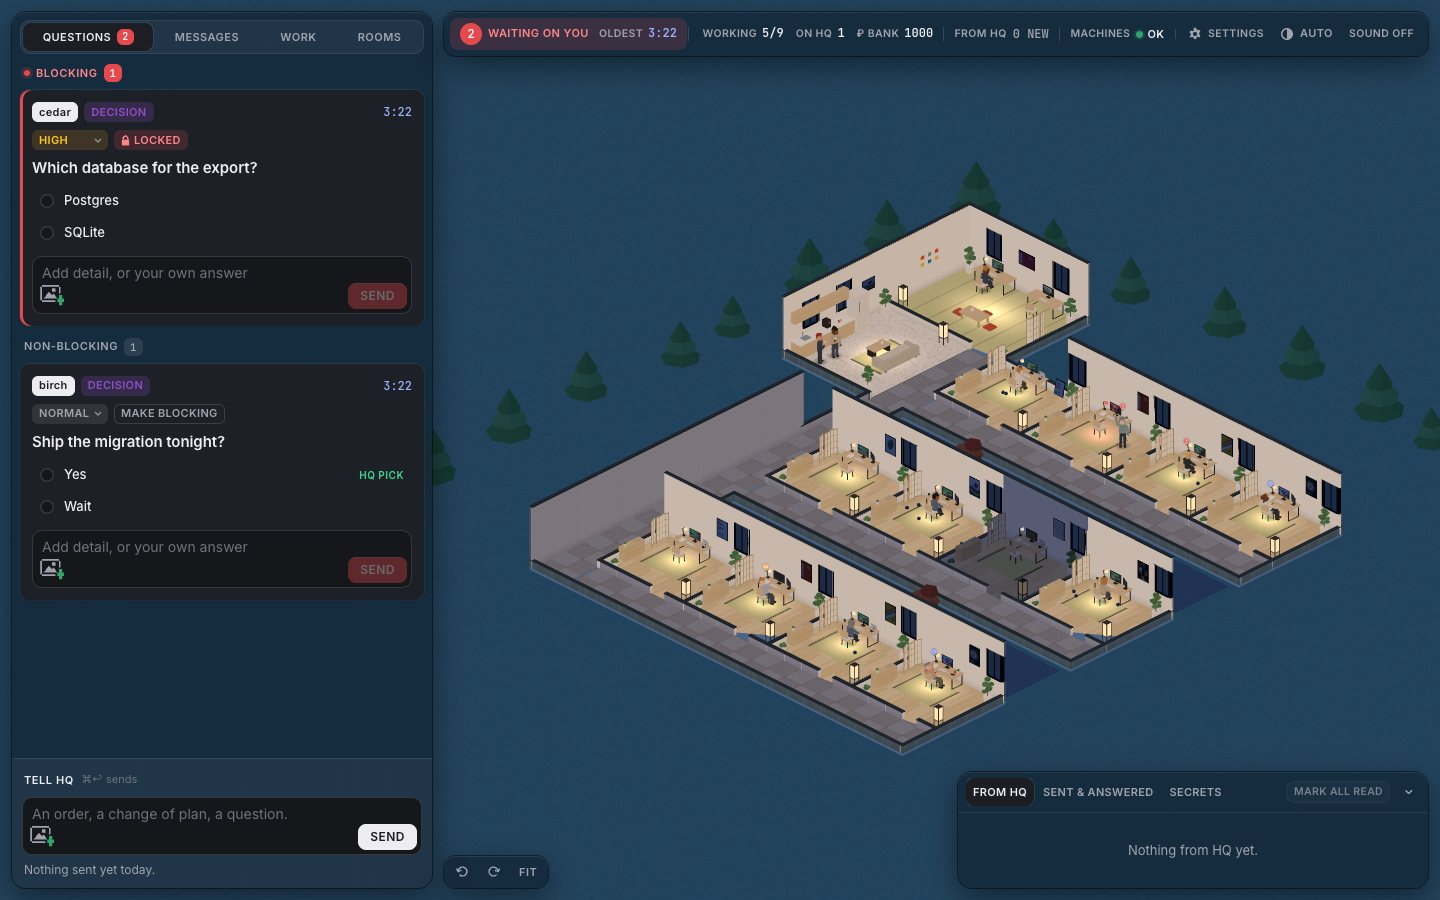
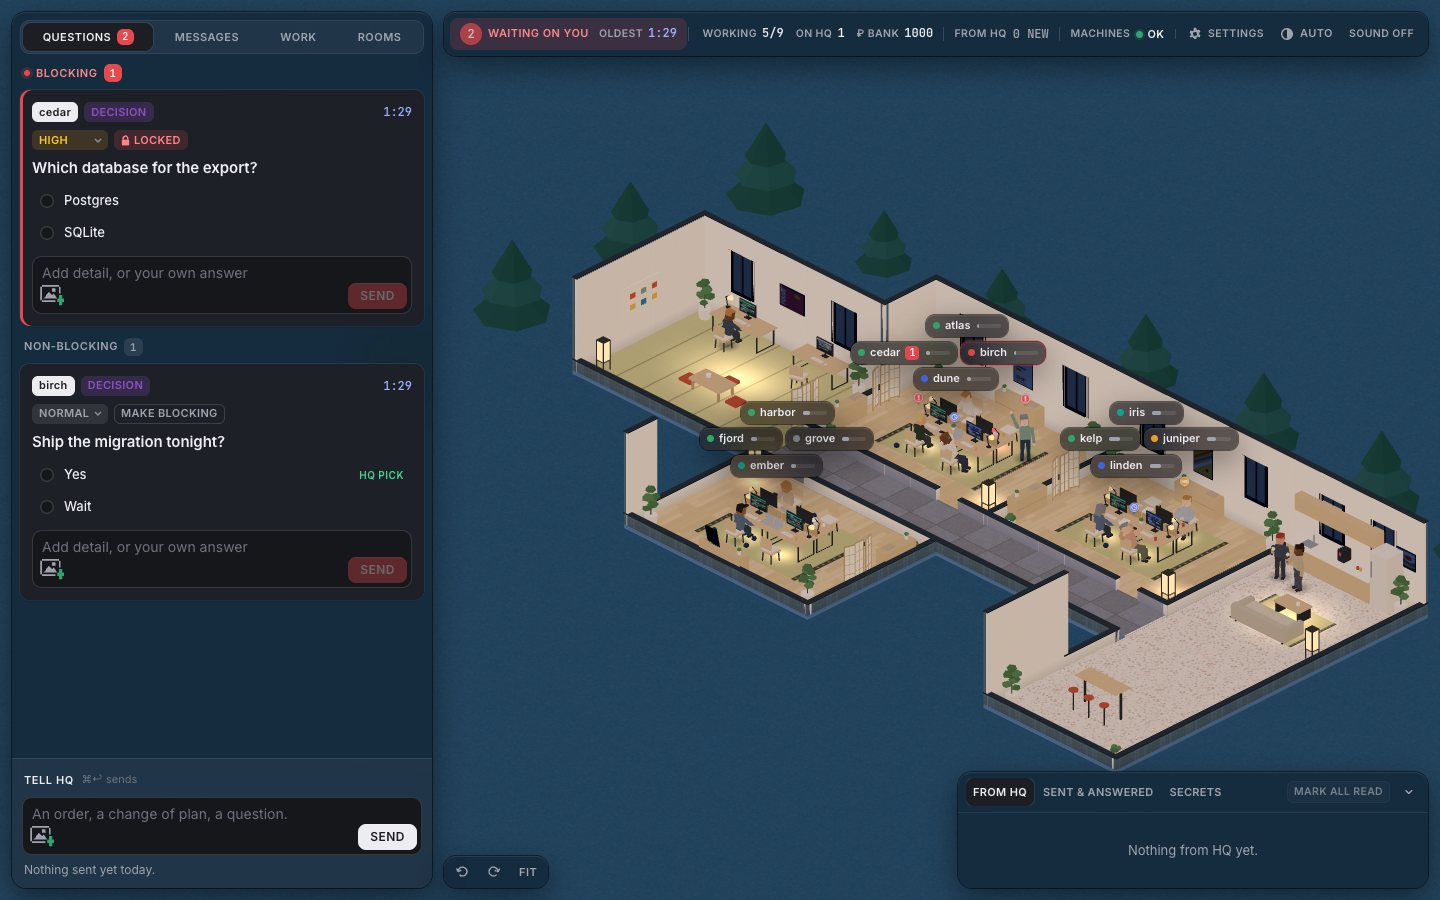
world: team rooms in the docs, the lab and the screens' users; no leaning poster
Spec F3 and section 5 rewritten for team rooms, D12 appended, README,
AGENTS.md and structure.md follow. The lab seats teams of 6, 3, 1, 4, 2,
1, 5 past four lanes (?teams= to change, ?teams=0 for none). A cut back
wall takes its poster with it: the print that leaned on the floor showed
the camera its back.

diff --git a/docs/design/world-lab.html b/docs/design/world-lab.html
@@ -191,16 +191,25 @@ const ui = q.get("ui") !== "0";
 document.documentElement.dataset.theme = theme;
 if (!ui) document.body.classList.add("noui");
 
-// Fake lanes: names, teams of four or five past eight lanes, and statuses that show every pose.
+// Fake lanes: names, a lane tree, and statuses that show every pose. Up to four lanes have no tree (one room of four);
+// past four, teams of the sizes in ?teams= (default 6,3,1,4,2,1,5: a team of six that opens a second room, small
+// teams, lanes on their own that share a room), repeated as needed. ?teams=0 gives no tree at all.
 const NAMES = ["birch", "cedar", "atlas", "dune", "ember", "fjord", "grove", "harbor", "iris", "juniper", "kelp", "linden", "maple", "nori", "oak", "pine", "quill", "reed", "sora", "tide", "umber", "vale", "willow", "yuzu"];
 const CYCLE = ["moving", "needs_you", "hq_turn", "waiting", "moving", "done", "moving", "parked", "needs_you", "moving", "stale", "waiting"];
 const custom = (q.get("statuses") ?? "").split(",").filter(Boolean);
+const sizes = (q.get("teams") ?? "6,3,1,4,2,1,5").split(",").map(Number).filter((s) => s > 0);
+const leadOf = [];
+for (let i = 0, k = 0; i < n; k++) {
+  const size = n > 4 && sizes.length ? sizes[k % sizes.length] : 1;
+  for (let j = 0; j < size && i < n; j++, i++) leadOf.push(j ? i - j : -1);
+}
+const laneName = (i) => NAMES[i % NAMES.length] + (i >= NAMES.length ? `-${i}` : "");
 const lanes = [{ name: "hq", status: "moving" }];
 for (let i = 0; i < n; i++) {
-  const team = n > 8 ? Math.floor(i / 5) * 5 : -1;
+  const team = leadOf[i] >= 0 ? leadOf[i] : i;
   const status = custom[i] ?? CYCLE[i % CYCLE.length];
   // a lane that works while one of its questions blocks it: the second working lane
-  lanes.push({ name: NAMES[i % NAMES.length] + (i >= NAMES.length ? `-${i}` : ""), parent: team >= 0 && i !== team ? NAMES[team] : null, status, blocking: status === "needs_you" || i === 4 ? 1 : 0 });
+  lanes.push({ name: laneName(i), parent: i !== team ? laneName(team) : null, status, blocking: status === "needs_you" || i === 4 ? 1 : 0 });
 }
 // Vitals in the server's shape (S.vitals[lane]): model, family, effort, context used and max, running subagents.
 const MODELS = ["claude-opus-4-5", "claude-sonnet-4-5", "claude-opus-4-5", "claude-haiku-4-5"];

diff --git a/src/client/world/furniture.js b/src/client/world/furniture.js
@@ -242,18 +242,13 @@ export function buildTeamRoom(room, L, light) {
   const wallPoster = posterMesh(room.index * 3 + 1, 0.7, 0.92);
   wallPoster.position.set(w / 2, 1.0, 0.08);
   group.add(wallPoster);
-  // when the back wall is cut, a smaller print leans on the shelf instead
-  const leanPoster = posterMesh(room.index * 3 + 1, 0.4, 0.54);
-  leanPoster.position.set(w / 2 + 0.3, 0.62, 0.14);
-  leanPoster.rotation.x = -0.2;
-  leanPoster.visible = false;
-  group.add(leanPoster);
 
   const lightPool = pool(L);
   lightPool.scale.set(0.6, 1, 0.6);
   lightPool.position.set(lx - 0.4, 0.012, lz - 0.4);
   group.add(lightPool);
-  return { group, lantern: glowM, wallPoster, leanPoster, pool: lightPool };
+  // when the back wall is cut the poster goes with it (a print leaning on the shelf would show the camera its back)
+  return { group, lantern: glowM, wallPoster, leanPoster: null, pool: lightPool };
 }
 
 // The HQ suite: HQ's desk, the owner's desk, a low table on the tatami, a board, plants.

diff --git a/docs/spec-3d-office.md b/docs/spec-3d-office.md
@@ -40,7 +40,7 @@ server with a throwaway data dir, with a screenshot saved under `docs/screens/`.
 | --- | --- | --- |
 | F1 | A three.js scene fills the whole window behind everything. Every panel is HTML over it. The page has no page scroll. | Browser |
 | F2 | Panels are frosted glass (blur and saturation of what is behind, a light inner edge, a soft shadow), dense like Linear: 13 px text, 28 to 32 px rows. Light and dark themes, following the system unless the owner picks one. The 3D office relights for each: day and night. | Browser (both themes) |
-| F3 | Every lane has its own office: its own floor, walls, desk, chair, poster, plant. More lanes add more offices along corridors; the floor never just gets bigger. | Browser at 1, 4, 9 and 18 lanes |
+| F3 | Every lane has its own desk (desk, chair, monitor, lamp) in a team room of up to four desks with its own floor, walls, poster, plants and shelves. A team (a top-level lane and everyone under it) shares a room and opens another next to its first past four; lanes with no tree fill rooms of four. More lanes add more rooms along corridors; the floor never just gets bigger. (Revised after the first build: D12.) | Browser at 1, 4, 9 and 18 lanes (1, 1, 3 and 5 rooms), and a team of six in two rooms |
 | F4 | Walls cut away: the two walls nearer the camera are low (a 0.4 m kerb), the two far walls are full height. Rotating the view in 90° steps recomputes which walls are low. | Browser |
 | F5 | Interior: light oak floors and desks, off-white walls, black steel legs, paper lanterns, shoji screens, low plants, tatami-style rugs, original posters. Reads as a small Scandinavian and Japanese startup. | Browser, owner's eye |
 | F6 | Each desk has a HUD readable at a glance: lane name and status, model, effort, number of running subagents, and context in use as a bar with a number. | Browser |
@@ -54,7 +54,7 @@ server with a throwaway data dir, with a screenshot saved under `docs/screens/`.
 
 | # | Outcome | Check |
 | --- | --- | --- |
-| D1 | `bun test` passes. Tests that hashed the old pixel room are replaced by tests of the new room (scene draws, one office per lane, walls cut, HUD per desk). | Test |
+| D1 | `bun test` passes. Tests that hashed the old pixel room are replaced by tests of the new room (scene draws, one desk per lane in team rooms, walls cut, HUD per desk). | Test |
 | D2 | `docs/STATUS.md` says what was built, what was decided, and what the owner should look at first. | File |
 | D3 | One draft PR on the fork. Nothing pushed to upstream, nothing merged. | `gh` |
 
@@ -94,7 +94,7 @@ furniture, walls that drop away so you look into rooms like a doll's house. Our 
 Nordic and Japanese startup, not a suburban house.
 
 - **Camera.** Orthographic, 45° azimuth, 30° elevation (the exact 2:1 of the original; see `docs/research/sims1-look.md`). Pan by drag, zoom by wheel or pinch within limits,
-  rotate in 90° steps (Q and E, or buttons). It eases to fit all offices when lanes come and go.
+  rotate in 90° steps (Q and E, or buttons). It eases to fit all rooms when lanes come and go.
 - **Light.** Day: a warm key light with soft shadows, a cool sky fill, gentle ambient. Night (dark theme): a dim blue
   ambient; desk lamps, monitors and lanterns carry the light.
 - **Materials.** Flat-shaded or very lightly lit standard materials, no textures larger than 256 px, posters drawn on
@@ -107,7 +107,7 @@ Nordic and Japanese startup, not a suburban house.
 
 | Token | Day | Night | Use |
 | --- | --- | --- | --- |
-| floor-oak | #d9b98c | #6b5a45 | office floors |
+| floor-oak | #d9b98c | #6b5a45 | team room floors |
 | floor-corridor | #e8e4dc | #3a3b40 | corridors |
 | wall | #f3efe7 | #4a4a52 | wall faces |
 | wall-cap | #c9b28f | #6e6250 | the top of the cut wall |
@@ -170,18 +170,30 @@ Status colours as above, at 12% alpha for fills.
 Like Game Dev Tycoon, the company moves into bigger premises as it grows, and like the brief asks, growth means more
 rooms, never one bigger floor.
 
-- **Office.** A 5 m by 4 m cell with its own floor, four walls and a door to the corridor. One lane per office.
-- **HQ suite.** A 7 m by 5 m office at the head of the plan for HQ and the owner's own desk.
-- **Stages,** by lane count:
-  1. Studio (1 to 3): HQ suite and a short hall with offices on one side.
-  2. Floor (4 to 8): a corridor with offices on both sides, and a break area (kitchen counter, sofa) where done
-     workers go.
-  3. Wings (9 to 16): one wing per top-level team in the lane tree, each its own corridor off a central hall.
-  4. Campus (17 and more): more wings in a grid, with courtyards (gravel, a maple) between them.
-- **Stable places.** A lane keeps its office while it exists. Offices are assigned in the order lanes appear,
-  grouped by team; a stage change re-lays the plan once and animates it.
-- **Arrival.** A new office rises from the floor over 800 ms; a removed lane's office dims and empties, then folds
-  away on the next stage change.
+- **Team room.** A 7 m by 5 m room with its own floor, four walls, a door to the corridor and two windows in the
+  back wall. It holds up to four desks as two facing pairs, an island in the middle of the room: the back pair's
+  workers face the door (and the camera at the default view), so they fill first. Each desk has its own chair,
+  monitor and lamp, and a few things of its lane's own (a notebook, a laptop, headphones, a mug); the room has one
+  set of the rest: a tatami rug under the island, a poster over a low shelf on the back wall, a shoji screen and a
+  shelf on the west wall, plants, a paper lantern by the door. A waiting worker stands beside its desk on the
+  island's outer side.
+- **Teams.** A team is a top-level lane (its parent is empty or HQ) and everyone under it in the lane tree. A team
+  shares a room; past four lanes it opens another room next to its first. Lanes with no tree (a top-level lane with
+  nobody under it) fill shared rooms of four in the order they appear. So the rooms mirror the lane tree.
+- **HQ suite.** A 7 m by 5 m room at the head of the plan for HQ and the owner's own desk.
+- **Stages,** by team rooms (1 to 4 lanes is one room):
+  1. Studio (1 room): the HQ suite and one team room side by side, a hall along their fronts.
+  2. Floor (2 to 4 rooms): a corridor with team rooms on both sides, the suite at one end and a break area (kitchen
+     counter, sofa) where done workers go at the other.
+  3. Wings (5 to 8 rooms): rows of up to four team rooms, each along its own corridor off a central hall, with
+     courtyards (gravel, a maple) between them; the break area beside the hall.
+  4. Campus (9 rooms and more): two columns of wings across a court from each other.
+- **Stable places.** A lane keeps its desk while it exists. A new lane takes a free desk in a room where its team
+  sits, else in a room opened for its team (or for lanes with no tree), else in a room left empty, else in a new
+  room at the end. A lane that comes back takes its old desk again. When the rooms in use call for another stage,
+  the plan is laid out again from the live lanes, grouped by team, in the order they appear.
+- **Arrival.** A new lane's desk rises from the floor over 800 ms; a removed lane's desk empties (no worker, screen
+  dark) and folds away at the next re-plan.
 
 ## 6. Code layout
 
@@ -204,8 +216,8 @@ export const THREE;                       // the vendored module
 export function onFrame(fn) {}            // fn(now, dt) after the scene updates, before render
 export function deskAnchor(lane) {}       // THREE.Vector3 above the lane's desk, or null
 export function project(v3) {}            // { x, y, visible } in CSS pixels
-export function addToWorld(obj, lane) {}  // parent an object to a lane's office group
-// bus: "world:ready", "world:select" (lane name), "world:layout" (lane names in their offices)
+export function addToWorld(obj, lane) {}  // parent an object to a lane's desk group (not its shared room)
+// bus: "world:ready", "world:select" (lane name), "world:layout" (the names of the lanes at desks)
 ```
 
 The old canvas room (`src/client/room/`) and its pixel tests are retired in the same change.

diff --git a/AGENTS.md b/AGENTS.md
@@ -1,6 +1,6 @@
 # HQ Office
 
-A local command centre for people who run AI coding agents in herdr: a 3D office in the manner of late-90s life-sim games where every lane (an AI agent working one task) is a worker in its own office, plus the panel where the owner answers HQ's questions. It runs as a herdr plugin or as `bun server.ts`, at http://127.0.0.1:4747 by default.
+A local command centre for people who run AI coding agents in herdr: a 3D office in the manner of late-90s life-sim games where every lane (an AI agent working one task) is a worker at a desk in its team's room, plus the panel where the owner answers HQ's questions. It runs as a herdr plugin or as `bun server.ts`, at http://127.0.0.1:4747 by default.
 
 If `AGENTS.local.md` exists next to this file, read it too: it holds the rules of this particular installation (how the server is run and restarted, who to report to). It is gitignored and never published.
 
@@ -29,7 +29,7 @@ what it is for. `docs/structure.md` explains the layout and its trade-offs.
 - `public/index.html`: the page shell (head, markup). The server adds every stylesheet and every feature folder when it serves it.
 - `src/client/main.js`: loads the built-in areas in their original order.
 - `src/client/core/`: shared by every area: `state.js` (S, CONFIG), `net.js` (post), `bus.js` (events), `boot.js` (load, stream, autoreload), `format.js`, `text.js`, `dom.js`, `clicks.js`, `status.js`; `base.css`, `controls.css`, `layout.css`.
-- `src/client/world/`: the 3D office (three.js): `index.js` (the feature entry: mounts the world on `<canvas id="world">`, fits it right of the question column, drives it from the bus `state` event; Q/E turn a quarter, 0 fits; exposes a read-only `window.__world` for tests), `world.js` (`mountWorld`: build, status, errands, turns, picking, frame loop), `api.js` (the one door for other areas: `THREE`, `onFrame`, `deskAnchor`, `project`, `addToWorld`; bus events `world:ready`, `world:select`, `world:hover`, `world:layout`), `plan.js` (pure: rooms, walls, cutaway, growth stages), `walk.js` (pure: paths from a desk to the break area), `camera.js`, `scene.js` (renderer, lights, frame loop), `rooms.js` (floors, walls with the cutaway), `furniture.js`, `people.js` (workers and poses), `balls.js` (subagent balls), `look.js` (colour tokens per theme, status colours, poses), `textures.js` (canvas textures drawn in code), `kit.js` (low-poly mesh tools), `world.css` (the turn and fit buttons).
+- `src/client/world/`: the 3D office (three.js): `index.js` (the feature entry: mounts the world on `<canvas id="world">`, fits it right of the question column, drives it from the bus `state` event; Q/E turn a quarter, 0 fits; exposes a read-only `window.__world` for tests), `world.js` (`mountWorld`: build, status, errands, turns, picking, frame loop), `api.js` (the one door for other areas: `THREE`, `onFrame`, `deskAnchor`, `project`, `addToWorld`; bus events `world:ready`, `world:select`, `world:hover`, `world:layout`), `plan.js` (pure: team rooms of four desks grouped by the lane tree, stable desks, walls, cutaway, growth stages counted in rooms), `walk.js` (pure: paths from a desk to the break area), `camera.js`, `scene.js` (renderer, lights, frame loop), `rooms.js` (floors, walls with the cutaway), `furniture.js`, `people.js` (workers and poses), `balls.js` (subagent balls), `look.js` (colour tokens per theme, status colours, poses), `textures.js` (canvas textures drawn in code), `kit.js` (low-poly mesh tools), `world.css` (the turn and fit buttons).
 - `src/client/theme/`: light, dark or system theme and the THEME button; emits `theme` on the bus. `src/client/glass/`: the glass shell's small behaviour (feed fold, Esc closes the worker card). `src/client/desk-hud/`: the HTML chip over each desk (lane, status, model, effort, subagents, context).
 - `src/client/vendor/three/`: three.js r186, vendored (minified module, its LICENSE, `addons/RoundedBoxGeometry.js`). `public/index.html` has an import map that maps `"three"` to `/src/client/vendor/three/three.module.min.js`.
 - `src/client/topbar/`, `questions/`, `tell/`, `feed/`, `card/`, `messages/`, `images/`, `sound/`, `settings/`: one folder per panel or feature, its module(s) and its stylesheet. `rooms/` is the ROOMS tab and the room view that takes the stage (`markdown.js`: the brief and the thread; the seats, AT THE TABLE, are in `index.js`).
@@ -52,7 +52,7 @@ what it is for. `docs/structure.md` explains the layout and its trade-offs.
 ## How to add
 
 - **A page feature or panel**: create `src/client/<name>/index.js` (and `<name>.css`). The page loads it after the built-in areas, no other file changes. Import what you read (`S` from `core/state.js`, `post` from `core/net.js`, `$` from `core/dom.js`) and render from the bus: `on("state", (S) => render())`. A panel inserts its own element (for example into `.under` or under the questions); it must never push an open question out of view.
-- **Something drawn in or over the office**: `onFrame((now, dt) => ...)`, `deskAnchor(lane)` and `project(v)` from `src/client/world/api.js` (HTML over a desk), or `addToWorld(obj, lane)` for a three.js object in a lane's office; listen for `world:ready` before using them.
+- **Something drawn in or over the office**: `onFrame((now, dt) => ...)`, `deskAnchor(lane)` and `project(v)` from `src/client/world/api.js` (HTML over a desk), or `addToWorld(obj, lane)` for a three.js object at a lane's desk; listen for `world:ready` before using them.
 - **A route**: add `{ method, path | prefix | pattern, handle }` to `src/server/routes/<resource>.ts`, or add the file. GET handlers return a Response; POST handlers get `{ body, m }` and return the JSON reply (nothing means `{ ok: true }`); writes are bumped for you.
 - **A table**: `src/server/schema/<table>.sql` with `CREATE TABLE IF NOT EXISTS`. Changing an existing table is a migration: ask HQ first.
 - **Server logic and state**: `src/server/<name>.ts`, imported by its route file; `addStatePart("<name>", () => value)` from `state.ts` puts it in `/api/state` as `S.<name>`.

diff --git a/README.md b/README.md
@@ -1,6 +1,6 @@
 # HQ Office
 
-HQ Office is a small local web app for people who run AI coding agents in [herdr](https://herdr.dev). It draws a 3D office in the manner of late-90s life-sim games, with a light Nordic-Japanese look: every lane (one agent working one task) is a worker in its own office, and you can see at a glance who is busy, who is blocked and who is done. Next to the office is the question panel, where your HQ agent (the agent that coordinates the others) asks you things and you answer them. Your answers are typed straight into the HQ agent's session.
+HQ Office is a small local web app for people who run AI coding agents in [herdr](https://herdr.dev). It draws a 3D office in the manner of late-90s life-sim games, with a light Nordic-Japanese look: every lane (one agent working one task) is a worker at a desk in its team's room, and you can see at a glance who is busy, who is blocked and who is done. Next to the office is the question panel, where your HQ agent (the agent that coordinates the others) asks you things and you answer them. Your answers are typed straight into the HQ agent's session.
 
 ## Requirements
 
@@ -125,11 +125,11 @@ A crash, a kill or a stop and start loses the values. The server keeps each secr
 
 Lanes can form a tree under HQ. `hud lane NAME --parent OTHER` sets who a lane reports to (`--parent hq` puts it straight under HQ); a loop is refused, and removing a lane moves its reports up a level. `hud tree` prints the tree with each lane's level name and status. In SETTINGS, LEVEL NAMES names the levels from the top (default `Manager, Lead, Engineer`; deeper lanes take the last name). The worker card shows a lane's level and its chain up to HQ.
 
-Every lane has its own office, and HQ has a suite. The office grows with the number of lanes: a studio for 1 to 3, a floor with a break area for 4 to 8, wings for 9 to 16 and a campus beyond that. From 9 lanes on, the offices of a top-level team share a wing. A new lane's office rises and a removed lane's office folds away.
+Every lane has its own desk, and a team shares a room: a top-level lane and everyone under it in the lane tree sit together, four desks to a room, and a bigger team opens another room next to its first. Lanes with no tree fill rooms of four in the order they appear. HQ has a suite. The office grows by rooms, never by one bigger floor: a studio with one team room (1 to 4 lanes), a floor with a break area for 2 to 4 rooms, wings for 5 to 8 rooms and a campus beyond that. A lane keeps its desk while it exists; a new lane's desk rises in its team's room and a removed lane's desk stands empty until the office is next laid out.
 
 Workers show their status by pose: seated and typing when working, standing beside the desk with a raised hand and a red badge when waiting on you, arms folded with an amber badge when HQ is up, leaning back with a blue badge when waiting on CI, walking to the break area with a mug when done, asleep at the desk when stale. A lane with an empty chair is parked or gone. Running subagents are small balls hopping round the desk, coloured by model family (Opus violet, Sonnet teal, Haiku amber).
 
-Click a worker or a desk to open its card. Q and E turn the office a quarter, 0 fits it to the window, and the buttons at the foot of the office do the same. The two walls nearest the camera are cut low so you can see in. Light and dark themes change the lighting: at night the lit offices glow.
+Click a worker or a desk to open its card. Q and E turn the office a quarter, 0 fits it to the window, and the buttons at the foot of the office do the same. The two walls nearest the camera are cut low so you can see in. Light and dark themes change the lighting: at night the lit rooms glow.
 
 ## The desk HUD
 

diff --git a/docs/decisions.md b/docs/decisions.md
@@ -85,3 +85,22 @@ The hero, the hero's hat, the seasons and event rooms, the weather and the Offic
 drawn by the pixel room. They are retired with it rather than ported, so the first 3D version is about the brief
 (offices per lane, desk HUDs, subagents, waiting versus working). Their saved settings stay in the settings table,
 untouched, so they can come back as 3D features without a migration.
+
+## D12. Team rooms, not a room per lane
+
+The owner looked at the first build and said lanes do not need their own rooms. With a 5 m by 4 m office per lane,
+twelve lanes made a campus of small cells: the camera had to pull back so far that the workers were a few pixels
+tall, and most of the floor was empty rooms. The plan now seats lanes at desks in team rooms of four (7 m by 5 m, two
+facing pairs), one team per room, a second room for a team past four, and lanes with no tree sharing rooms of four.
+
+- **Readable figures.** Twelve lanes are three rooms instead of twelve offices, so the view fits a third of the floor
+  and every worker and desk chip is larger on screen. Growth still means more rooms, never one bigger floor; the
+  stages count rooms.
+- **A Sims-house feel.** A few lived-in rooms with people working side by side reads like a household in the
+  reference; a row of identical one-person cells read like a storage unit.
+- **Rooms that mirror the lane tree.** A top-level lane and everyone under it sit together, so the office shows
+  who works with whom at a glance, which a room per lane never did.
+
+What a lane owns is now its desk: `deskAnchor(lane)`, `addToWorld(obj, lane)`, the subagent balls and picking all
+key on the desk, not the room. `window.__world` lists `rooms` (`{ id, team, lanes }`) and `desks` instead of
+`offices`.

diff --git a/docs/structure.md b/docs/structure.md
@@ -123,11 +123,12 @@ an existing table is still a careful by-hand migration; the files only make new 
   reached from `main.js` or a feature's `index.js`, every file opens with a comment.
 - `test/client/page.test.ts`: in Chrome at 1440x900, no console errors, no page scroll, an answer and a note reach
   the server, the tabs, the worker card, settings and sound respond.
-- `test/client/world-plan.test.ts`: the office's plan (rooms, walls, cutaway, growth stages), pure, no browser.
+- `test/client/world-plan.test.ts`: the office's plan (team rooms of four, stable desks, walls, cutaway, growth
+  stages), pure, no browser.
 - `test/client/world.test.ts`: in Chrome with WebGL on SwiftShader (`startChrome({ webgl: true })` from
-  `scripts/room-hash.ts`): one office per lane at 1, 4, 9 and 18 lanes, the canvas draws, the walls nearest the camera
-  are low and recomputed after a turn, clicking a worker opens its card and Esc closes it, and the office rests while a
-  room covers it. Run it with `bun test --timeout 90000 test/client/world.test.ts`.
+  `scripts/room-hash.ts`): one desk per lane in team rooms at 1, 4, 9 and 18 lanes, a team of six in two rooms, the
+  canvas draws, the walls nearest the camera are low and recomputed after a turn, clicking a worker opens its card and
+  Esc closes it, and the office rests while a room covers it. Run it with `bun test --timeout 90000 test/client/world.test.ts`.
 
 The split was also run on a copy of another lane's branch (a new page section, new routes, a new root module and
 its tests): it placed the new work in its own module, file and route file, and the branch's tests passed. The
